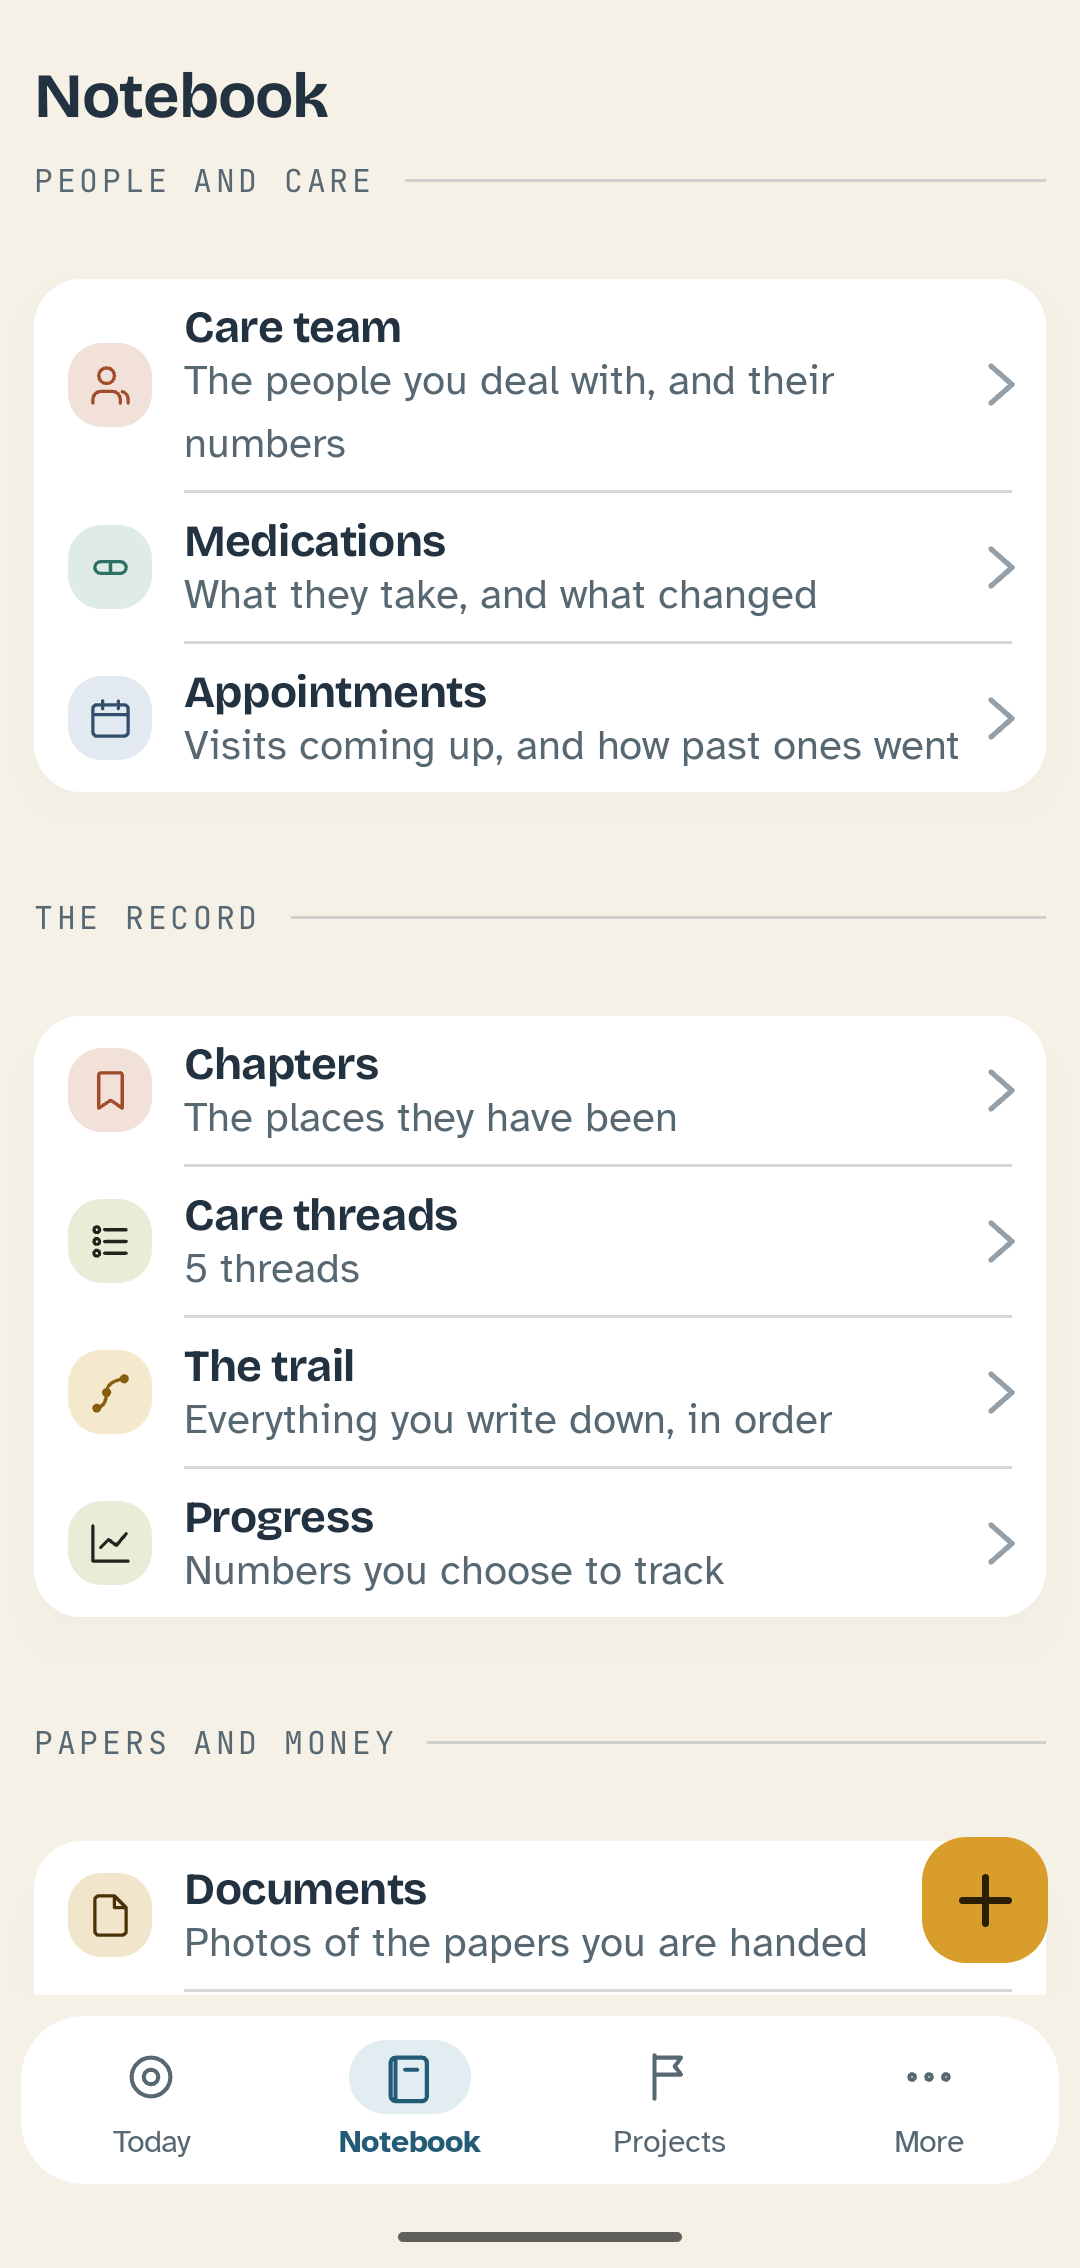
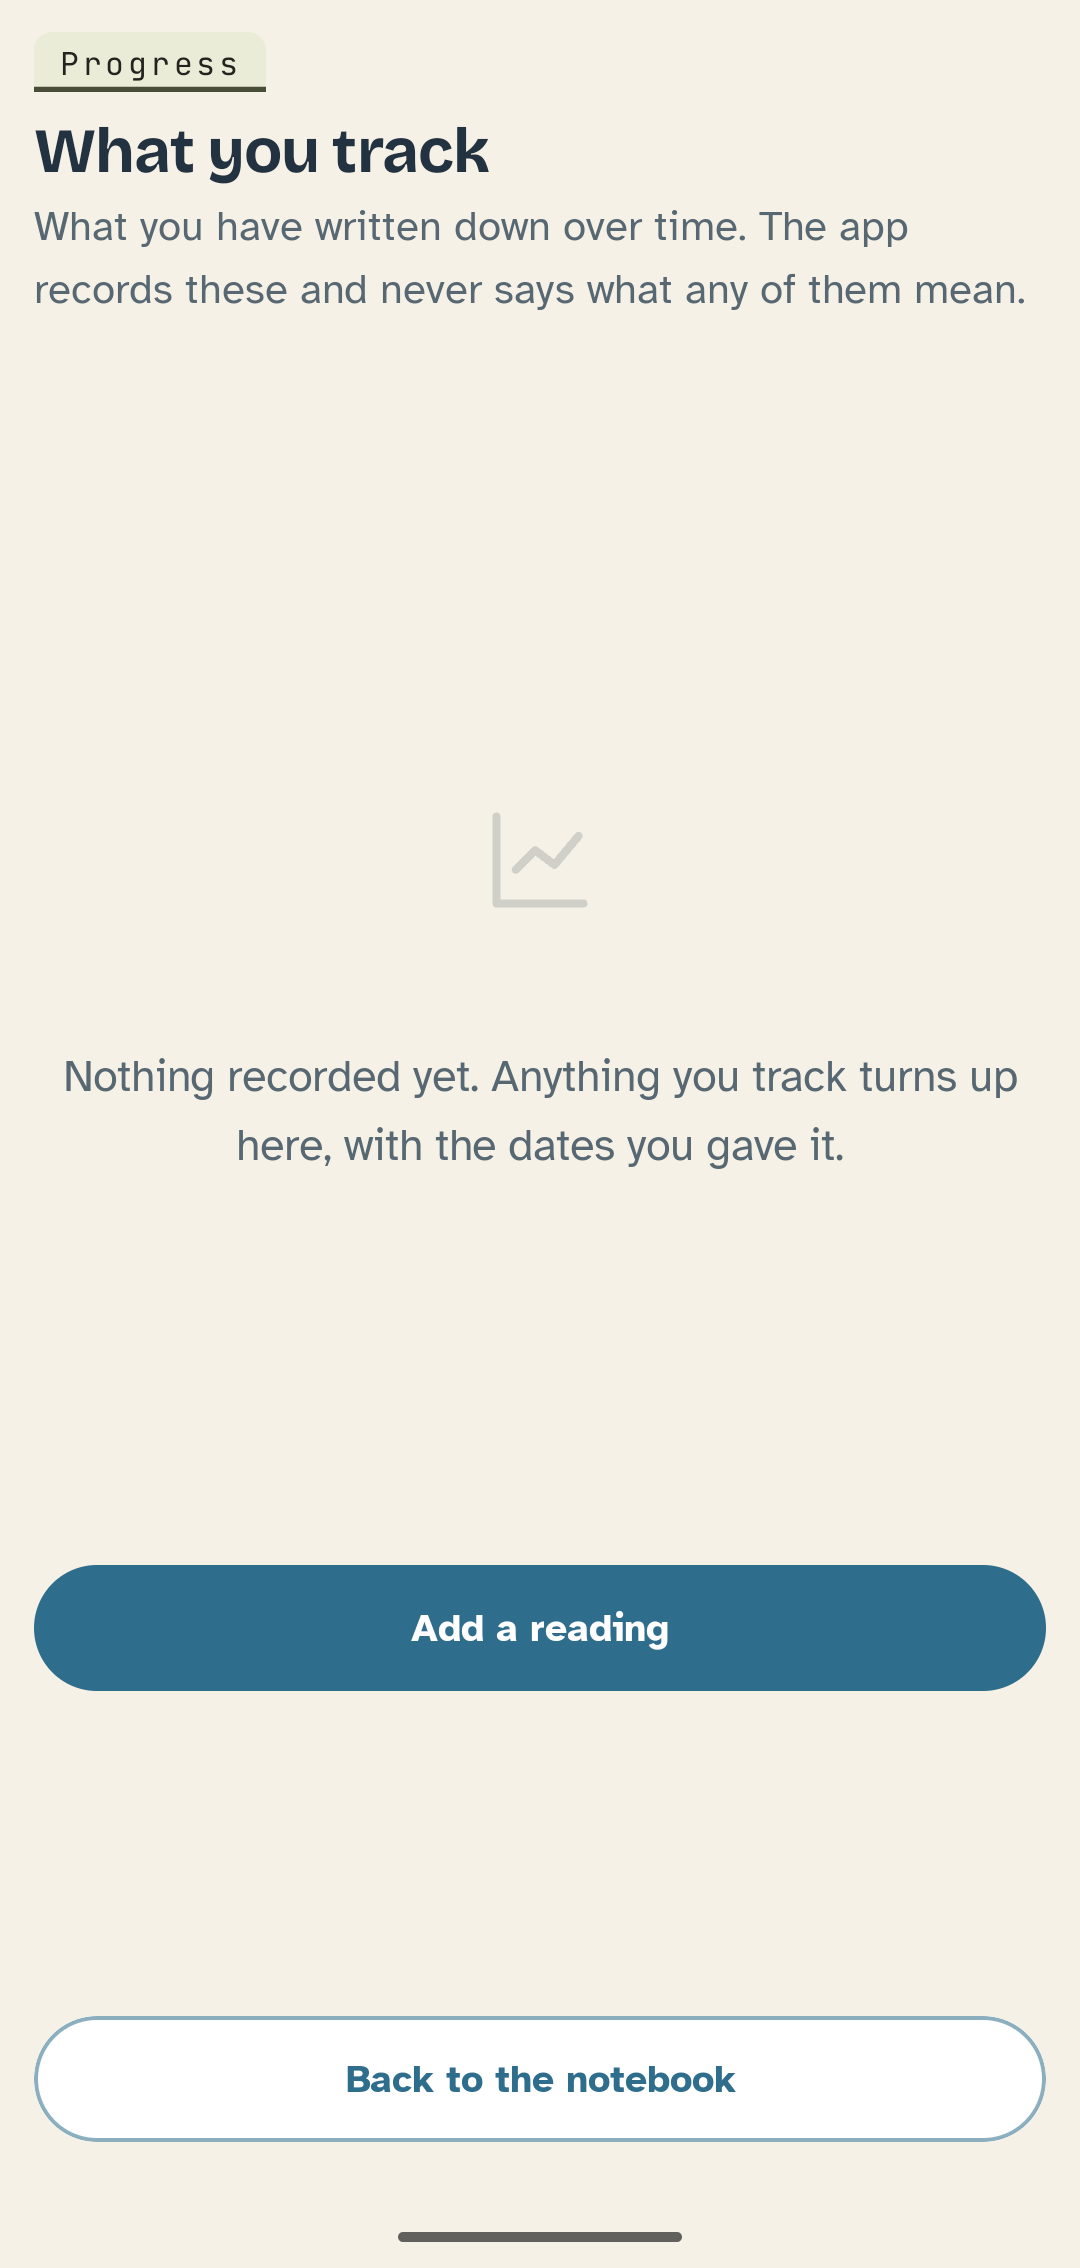
The squiggles are gone, and 1.0.0 is the version
THE GROUND UNDER EVERY EMPTY STATE IS REMOVED, on the owner's order. It
was the trail map drawn small, two contours, a dashed route, a waypoint,
under the section icon on every empty screen. What he saw was "weird
little squiggly lines... some kind of drawings that you just made up."
He was right in the way that matters: a metaphor that has to be
explained is not a metaphor, it is clutter, and the person it read as
clutter to is the one the app is for. The section's own icon stays,
because it teaches the mark the person navigates by. A null section now
draws nothing and takes nothing, and its spacer goes with it, so the
places outside the twelve carry no invisible hole. Verified on the
phone: the icon stands alone and the screen is calmer.

versionCode 2, versionName 1.0.0, and D166 records what 1.0 means:
the round trip proven on the minified build both ways, the stranger
test failures closed, every needs-design-review issue reviewed on the
device and closed, the entry form family walked with saves proven, 728
instrumented tests green. "+ Start" stays below the list and the grid
departure is recorded. The five deep project screens ship on the shared
scaffold as a verdict, not an omission.

Claude-Session: https://claude.ai/code/session_01EDVeq2bM3wBwGduzvLHqtA

diff --git a/android/app/src/main/kotlin/com/kamsiob/healthtrail/ui/components/EmptyDrawing.kt b/android/app/src/main/kotlin/com/kamsiob/healthtrail/ui/components/EmptyDrawing.kt
@@ -30,14 +30,11 @@ import com.kamsiob.healthtrail.ui.theme.HealthTrail
  * cheap way to make a screen interesting, which is right, and left nothing in
  * their place, so this is what the app's own vocabulary puts there instead.
  *
- * **Two halves, and only one of them varies.**
- *
- * The **ground** is the sibling half and is identical on every screen: two
- * contour lines with a dashed route running between them and one waypoint on
- * it. That is the trail map, drawn small and quiet.
- *
- * The **mark** is the identifying half, and it is the section's own icon from
- * the table of contents, scaled up rather than redrawn. **Nothing here was
+ * **The mark alone, since 2026-08-16.** It carried a "ground" under it, the
+ * trail map drawn small, and the owner saw "weird little squiggly lines...
+ * drawings that you just made up." He was right in the way that matters: a
+ * metaphor that needs explaining is clutter. The mark is the section's own
+ * icon from the table of contents, scaled up rather than redrawn. **Nothing here was
  * invented.** Thirteen freshly drawn illustrations would drift in weight and
  * character however carefully they were made, and this app already owns
  * thirteen drawings that do not drift because they came off one grid. Reusing
@@ -62,11 +59,6 @@ fun EmptyDrawing(
 ) {
     val colors = HealthTrail.colors
 
-    val ground = remember {
-        Path().apply {
-            GROUND.forEach { addPath(PathParser().parsePathString(it).toPath()) }
-        }
-    }
     val mark = remember(section) {
         section?.let {
             Path().apply {
@@ -77,30 +69,29 @@ fun EmptyDrawing(
         }
     }
 
+    // **A place outside the twelve used to get the ground alone; with the
+    // ground gone it gets nothing, and honestly nothing.** Reserving the box
+    // with no drawing in it would be rule 11's blank area in miniature on
+    // every screen that passes null.
+    if (section == null) return
+
     Box(
         modifier = modifier.size(size).clearAndSetSemantics { },
         contentAlignment = Alignment.Center,
     ) {
         val stroke = Stroke(width = STROKE, cap = StrokeCap.Round, join = StrokeJoin.Round)
 
-        Canvas(modifier = Modifier.size(size)) {
-            val factor = this.size.minDimension / VIEWPORT
-            scale(factor, pivot = Offset.Zero) {
-                drawPath(ground, colors.ink.copy(alpha = GROUND_ALPHA), style = stroke)
-            }
-        }
-
-        // **A separate canvas rather than a nested transform.** The ground and
-        // the icon are authored on different grids, and composing the two
-        // scales by hand is the kind of arithmetic that is wrong once and then
-        // wrong forever. Compose already centers and offsets for free.
+        // **The ground is gone, on the owner's order, 2026-08-16.** It was
+        // the trail map drawn small under the mark, per 5.17, and what he saw
+        // was "weird little squiggly lines... some kind of drawings that you
+        // just made up." A metaphor that has to be explained is not a
+        // metaphor, it is clutter, and the person it read as clutter to is
+        // the one the app is for. The section's own icon stays, because it
+        // teaches the mark the person navigates by; the landscape under it
+        // taught nothing.
         if (mark != null) {
             Canvas(
-                modifier = Modifier
-                    .size(size * MARK_SCALE)
-                    // Lifted, so the ground reads as something the mark stands
-                    // on rather than something crossing it.
-                    .offset(y = -size * MARK_LIFT),
+                modifier = Modifier.size(size * MARK_SCALE),
             ) {
                 val factor = this.size.minDimension / ICON_VIEWPORT
                 scale(factor, pivot = Offset.Zero) {
@@ -115,41 +106,10 @@ fun EmptyDrawing(
 private const val ICON_VIEWPORT = 24f
 private const val STROKE = 1.7f
 
-/** The ground is drawn on a wider grid, because a landscape is wider than an icon. */
-private const val VIEWPORT = 48f
 
 /** The mark takes a little under half the drawing, so the ground is not decoration around a logo. */
 private const val MARK_SCALE = 0.46f
 
-/** How far above center the mark sits, as a fraction of the drawing. */
-private const val MARK_LIFT = 0.14f
 
-/**
- * Both halves are quiet, and the mark is the louder of the two.
- *
- * 12% for the ground is the figure section 5.17 sets. The mark is lifted to 18%
- * so the section is identifiable at a glance without the drawing becoming
- * content, which is what a heavier one would be.
- */
-private const val GROUND_ALPHA = 0.12f
 private const val MARK_ALPHA = 0.18f
 
-/**
- * The trail map ground: two contours, a dashed route between them, one waypoint.
- *
- * On a 48 unit grid. The route is drawn as separate segments rather than with a
- * dash effect, because a path effect would also dash the contours, and because
- * the segments are then part of the drawing rather than a property of how it
- * happens to be stroked.
- */
-private val GROUND = listOf(
-    // The far contour, a low ridge.
-    "M2 30c6-5 10-5 15-1 5 4 9 4 14 0 4-3 8-3 15 2",
-    // The near contour.
-    "M2 39c7-4 11-4 16 0 5 3 9 3 13-1 5-4 9-4 17 3",
-    // The route, running across them, in six dashes.
-    "M6 44l3-2", "M13 40l4-2", "M21 37l4-1", "M29 35l4 1", "M37 37l3 2",
-    // One waypoint on the route, hollow, because an empty section is a place
-    // nothing has happened yet.
-    "M25.2 36a1.8 1.8 0 1 0 3.6 0 1.8 1.8 0 1 0-3.6 0",
-)

diff --git a/android/app/src/main/kotlin/com/kamsiob/healthtrail/ui/screens/MoreScreen.kt b/android/app/src/main/kotlin/com/kamsiob/healthtrail/ui/screens/MoreScreen.kt
@@ -11,8 +11,6 @@ import androidx.compose.ui.platform.testTag
 import com.kamsiob.healthtrail.i18n.LocalStrings
 import com.kamsiob.healthtrail.ui.ShellTags
 import com.kamsiob.healthtrail.ui.components.GroupHeader
-import com.kamsiob.healthtrail.ui.components.wholeAppHue
-import com.kamsiob.healthtrail.ui.components.TabChip
 import com.kamsiob.healthtrail.ui.components.GroupedRows
 import com.kamsiob.healthtrail.ui.components.DenseRow
 import com.kamsiob.healthtrail.ui.components.QuietButton
@@ -86,7 +84,10 @@ fun MoreScreen(
         // "Appearance" is the app showing its own structure, which is rule 20.
         titleKey = "nav.more",
         subtitleKey = "more.subtitle",
-        tab = { TabChip(hue = wholeAppHue(), labelKey = "nav.more") },
+        // **No eyebrow chip on a tab root**, D163: it repeated the title word
+        // for word, and the bottom bar already says where you are. The last
+        // of the four roots to lose it.
+        tab = {},
         // **Above the theme, because these are what somebody opens More to
         // reach.** The theme is changed once; search and export are not.
         header = {

diff --git a/android/app/src/main/kotlin/com/kamsiob/healthtrail/ui/screens/SectionScaffold.kt b/android/app/src/main/kotlin/com/kamsiob/healthtrail/ui/screens/SectionScaffold.kt
@@ -385,7 +385,9 @@ fun SectionEmpty(
         verticalArrangement = Arrangement.Center,
     ) {
         EmptyDrawing(section = section)
-        Spacer(Modifier.height(Space.l))
+        // The drawing draws nothing for a null section since 2026-08-16, so
+        // its gap goes with it rather than floating above the lead.
+        if (section != null) Spacer(Modifier.height(Space.l))
         if (lead != null) {
             Text(
                 text = lead,

diff --git a/DECISIONS.md b/DECISIONS.md
@@ -2990,6 +2990,20 @@ So the decision is a `// bidi-ok:` comment on the line, and the check reads it. 
 
 ---
 
+### D166. What 1.0 means, and the two judgment calls that closed it
+
+**Date:** 2026-08-16. **The owner: "the 1.0 it's supposed to mean something. finish the entire app... the acceptance criteria here is that it is a complete shippable app."**
+
+**What 1.0 means, verified rather than asserted:** the export, wipe, restore round trip proven on the signed minified build in both directions (D165); the stranger-test failures closed (D162 through D164: the Notebook categorized and teaching, the project home one fixed order, the paper viewer); every `needs-design-review` issue reviewed on the device and closed; the entry form family walked with saves proven, the unknown date first class, context carried between screens; 728 instrumented tests, 218 unit tests, 28 repo checks, lint, CI green; versionCode 2, versionName 1.0.0; the AAB built with the release key and placed in the project folder.
+
+**"+ Start" stays below the list, and the grid departure is recorded.** Grid screen 02 draws it at the top. Below the list is where the empty state's action, D137's bar, and the FAB clearance all already are, and a person with two projects sees it without scrolling; a person with ten is scrolling anyway. Rule 23 and no new header furniture. D142 satisfied by this paragraph.
+
+**The five deep project screens ship as they are, and that is a verdict, not an omission.** All five stand on SectionScaffold with the shared grammar, all are suite covered and reader walked, and the one structural failure among them, the steps buried behind Setup, was fixed in D164. What remains on #369 is polish degree, tracked, not blocking.
+
+**Post 1.0, explicitly:** #369 polish, #370 (a schema question, rule 3, genuinely the owner's), #375 as the standing bar, attachments in the round trip walk, and the deferred locales (D141).
+
+---
+
 ### D165. The round trip is proven on the minified build, and 1.0 was allowed to depend on it
 
 **Date:** 2026-08-16. **The debt D161 named, paid.** The owner ordered 1.0 cut tonight; this was the one item with a silent failure mode, so it went first.
